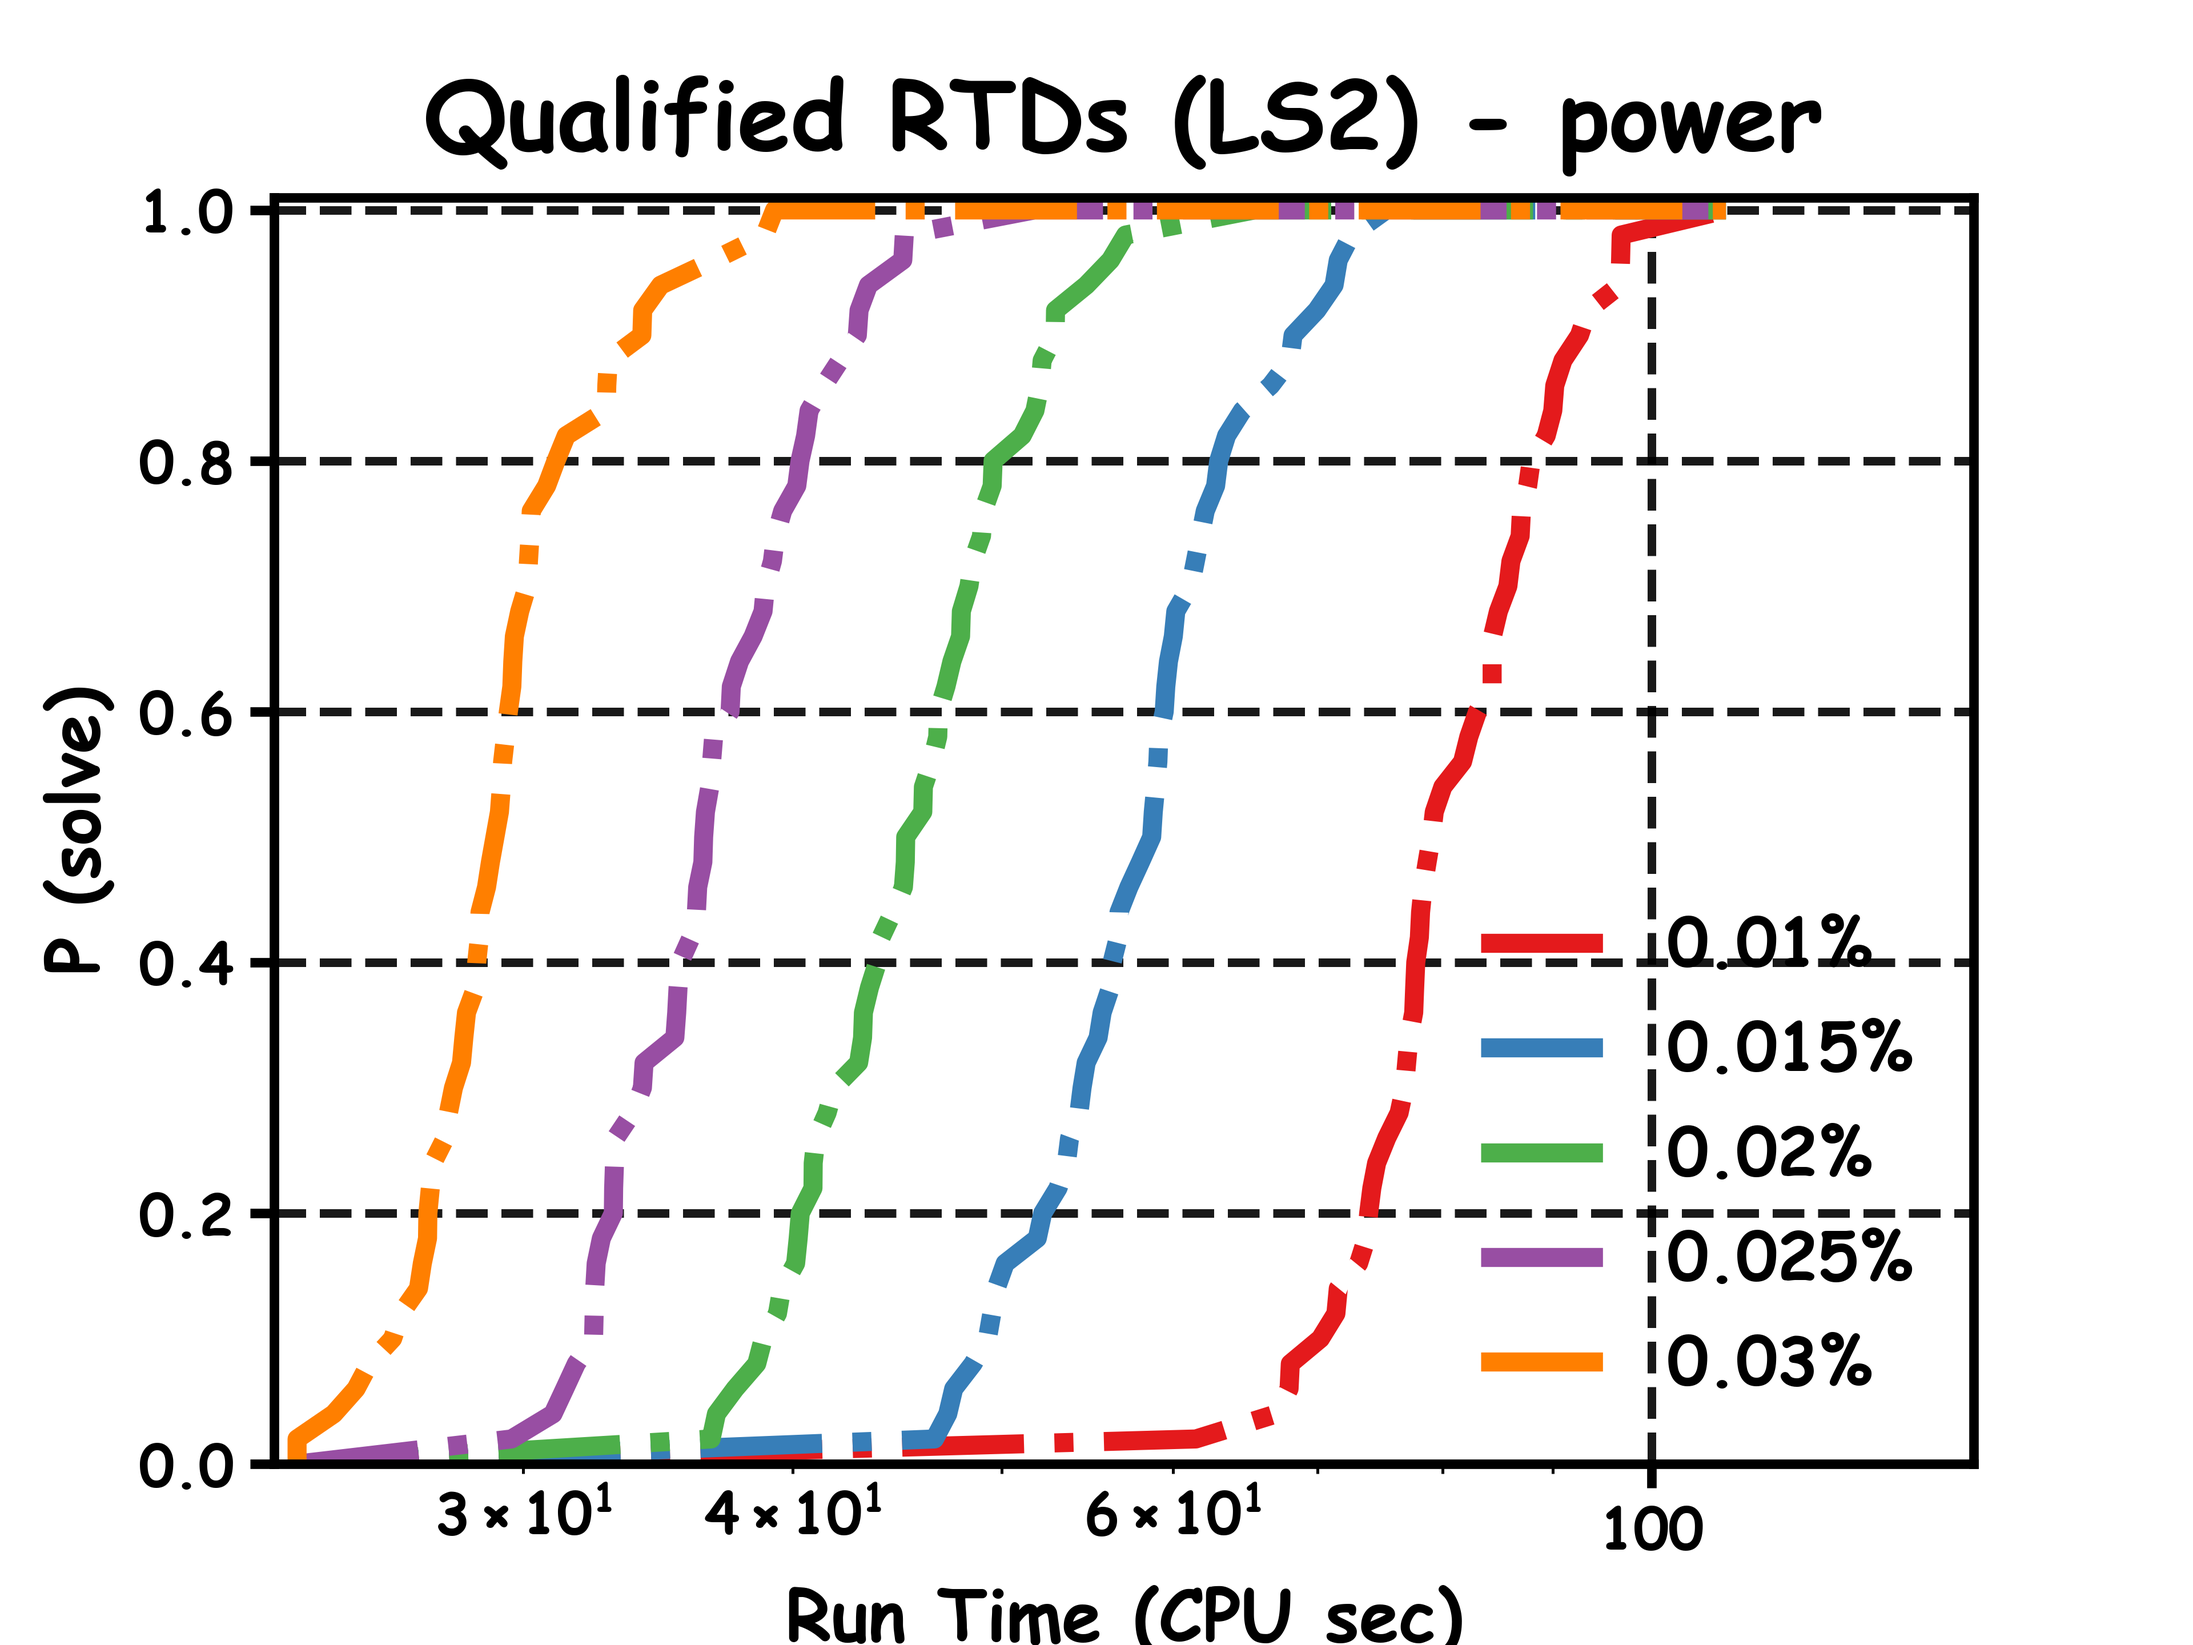
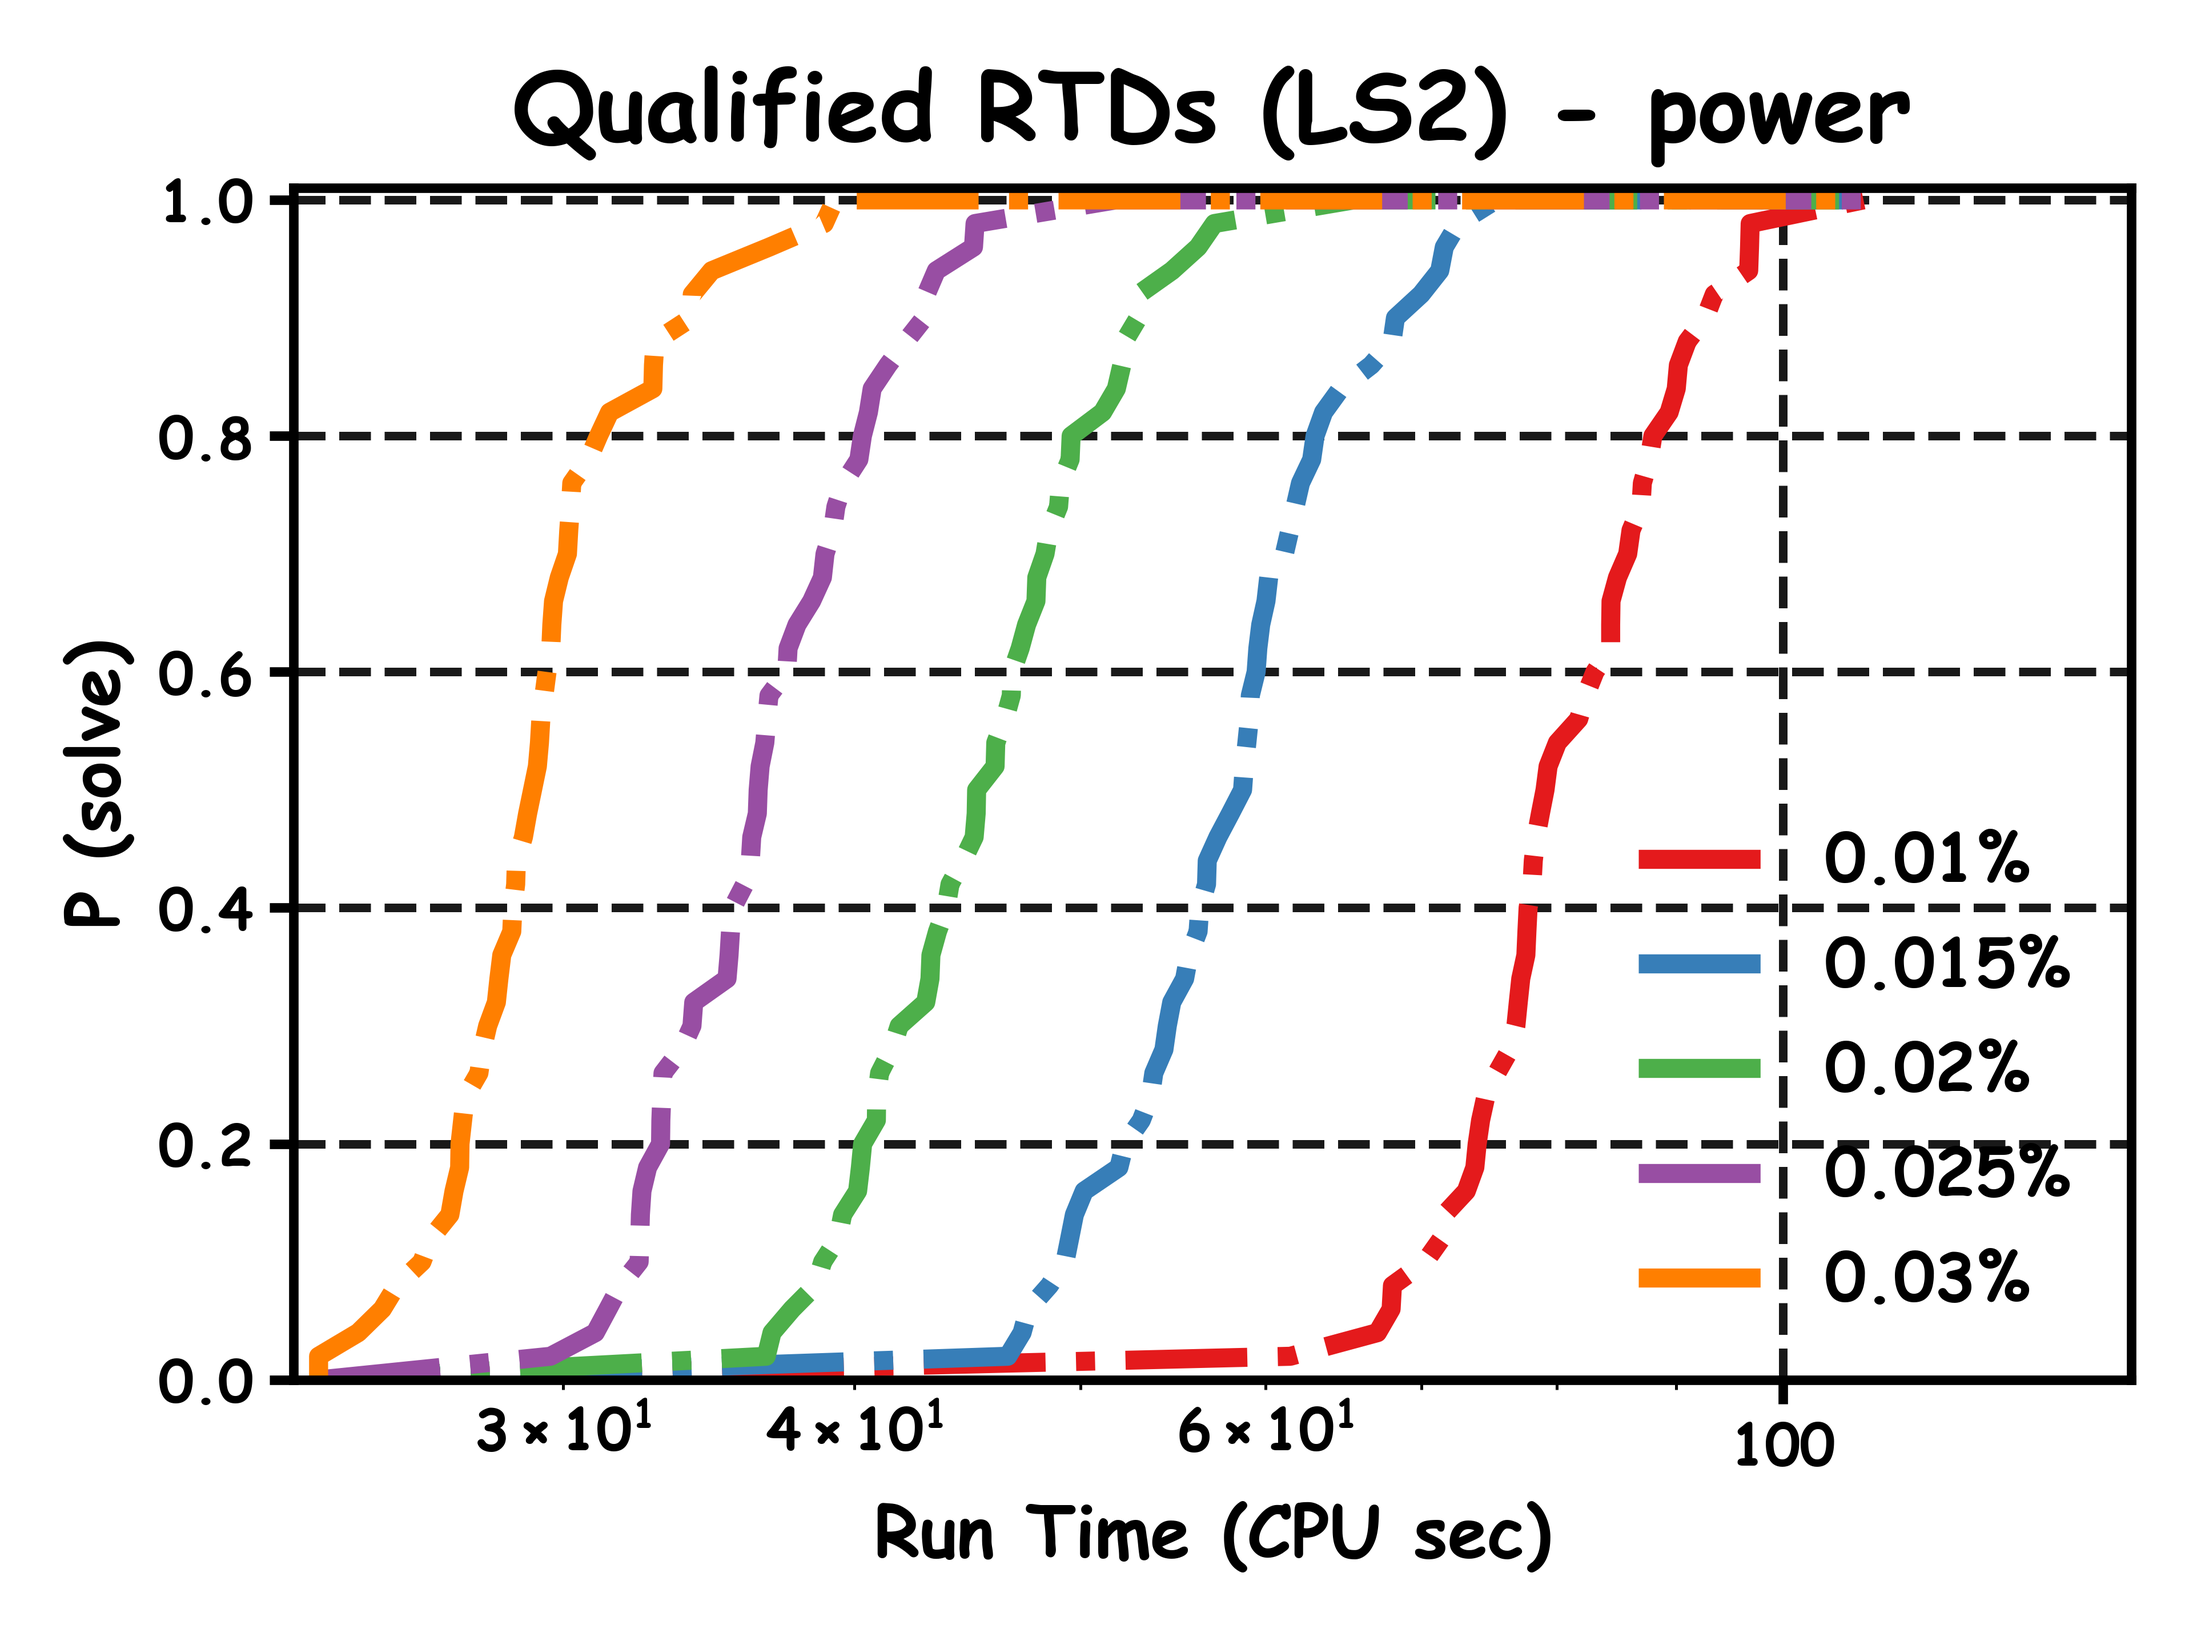
delivery: qrtd

Changed region(s): [[0.0, 0.0312, 1.0, 1.0]]

diff --git a/deliverables/deliverable.py b/deliverables/deliverable.py
@@ -166,6 +166,7 @@ def qrtd(graph_instance, alg, trace):
     plt.xlabel("Run Time (CPU sec)", fontdict=label_font)
     plt.ylabel("P (solve)", fontdict=label_font)
     plt.legend(loc=4, ncol=1, prop={'size': 14}, frameon=False)
+    plt.tight_layout()
     plt.savefig('QRTD-' + graph_instance + "-" + alg + '.png', dpi=600)
     plt.show()
 
@@ -197,18 +198,13 @@ def main():
             trace_result = readTrace(plot_graph, plot_alg)
 
             # plot qrtd
-            min_error = (min([min(trace_result_1[seed], key=lambda x: x[1])[1] for seed in trace_result_1.keys()]) -
+            min_error = (min([min(trace_result[seed], key=lambda x: x[1])[1] for seed in trace_result.keys()]) -
                          optimalVC[plot_graph]) / optimalVC[plot_graph]
-            max_error = (max([max(trace_result_1[seed], key=lambda x: x[1])[1] for seed in trace_result_1.keys()]) -
+            max_error = (max([max(trace_result[seed], key=lambda x: x[1])[1] for seed in trace_result.keys()]) -
                          optimalVC[plot_graph]) / optimalVC[plot_graph]
             print("Graph:\n" + "Min: " + str(min_error) + "\n" + "Max: " + str(max_error))
             qrtd(plot_graph, plot_alg, trace_result)
 
-
-"""
-if __name__ == "__main__":
-    main()
-"""
 
 parameter_dict = {
     "quality": {
@@ -228,7 +224,8 @@ parameter_dict = {
 }
 
 # read data random seed: trace list
-plot_graph, plot_alg = "star2", "LS1"
+"""
+plot_graph, plot_alg = "star2", "LS2"
 time.sleep(1)  # sleep one second
 trace_result_1 = readTrace(plot_graph, plot_alg)
 
@@ -236,7 +233,12 @@ trace_result_1 = readTrace(plot_graph, plot_alg)
 min_error = (min([min(trace_result_1[seed], key=lambda x: x[1])[1] for seed in trace_result_1.keys()]) - optimalVC[plot_graph]) / optimalVC[plot_graph]
 max_error = (max([max(trace_result_1[seed], key=lambda x: x[1])[1] for seed in trace_result_1.keys()]) - optimalVC[plot_graph]) / optimalVC[plot_graph]
 print("Graph:\n" + "Min: " + str(min_error) + "\n" + "Max: " + str(max_error))
-qrtd(plot_graph, plot_alg, trace_result_1)
+qrtd(plot_graph, plot_alg, trace_result_1)""
+"""
+
+if __name__ == '__main__':
+    main()
+
 
 
 
